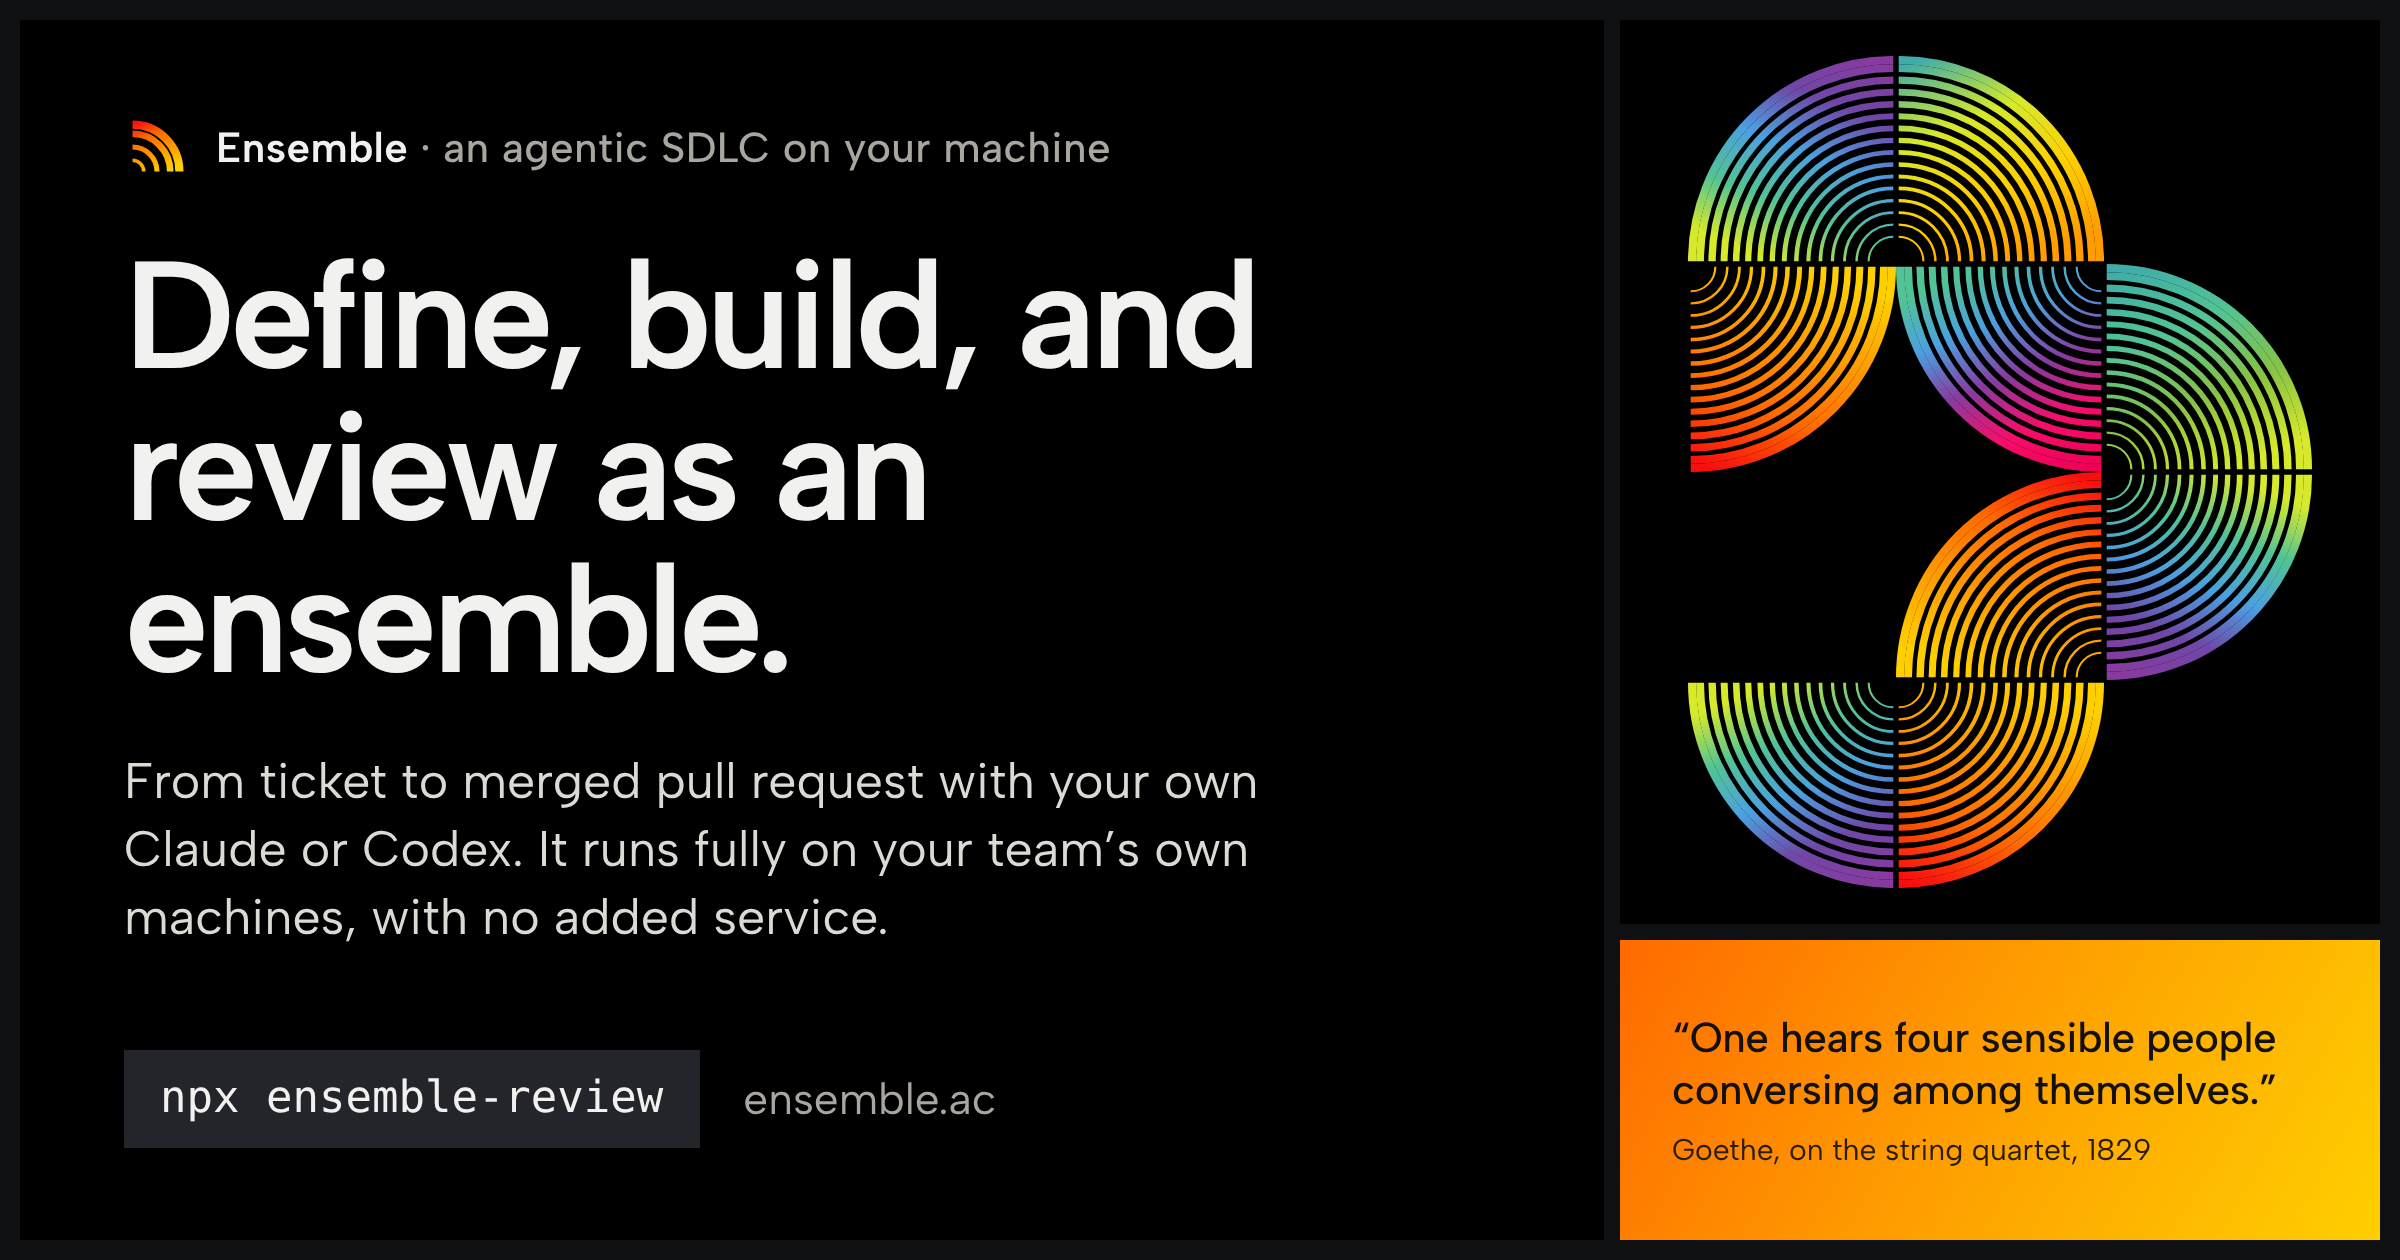
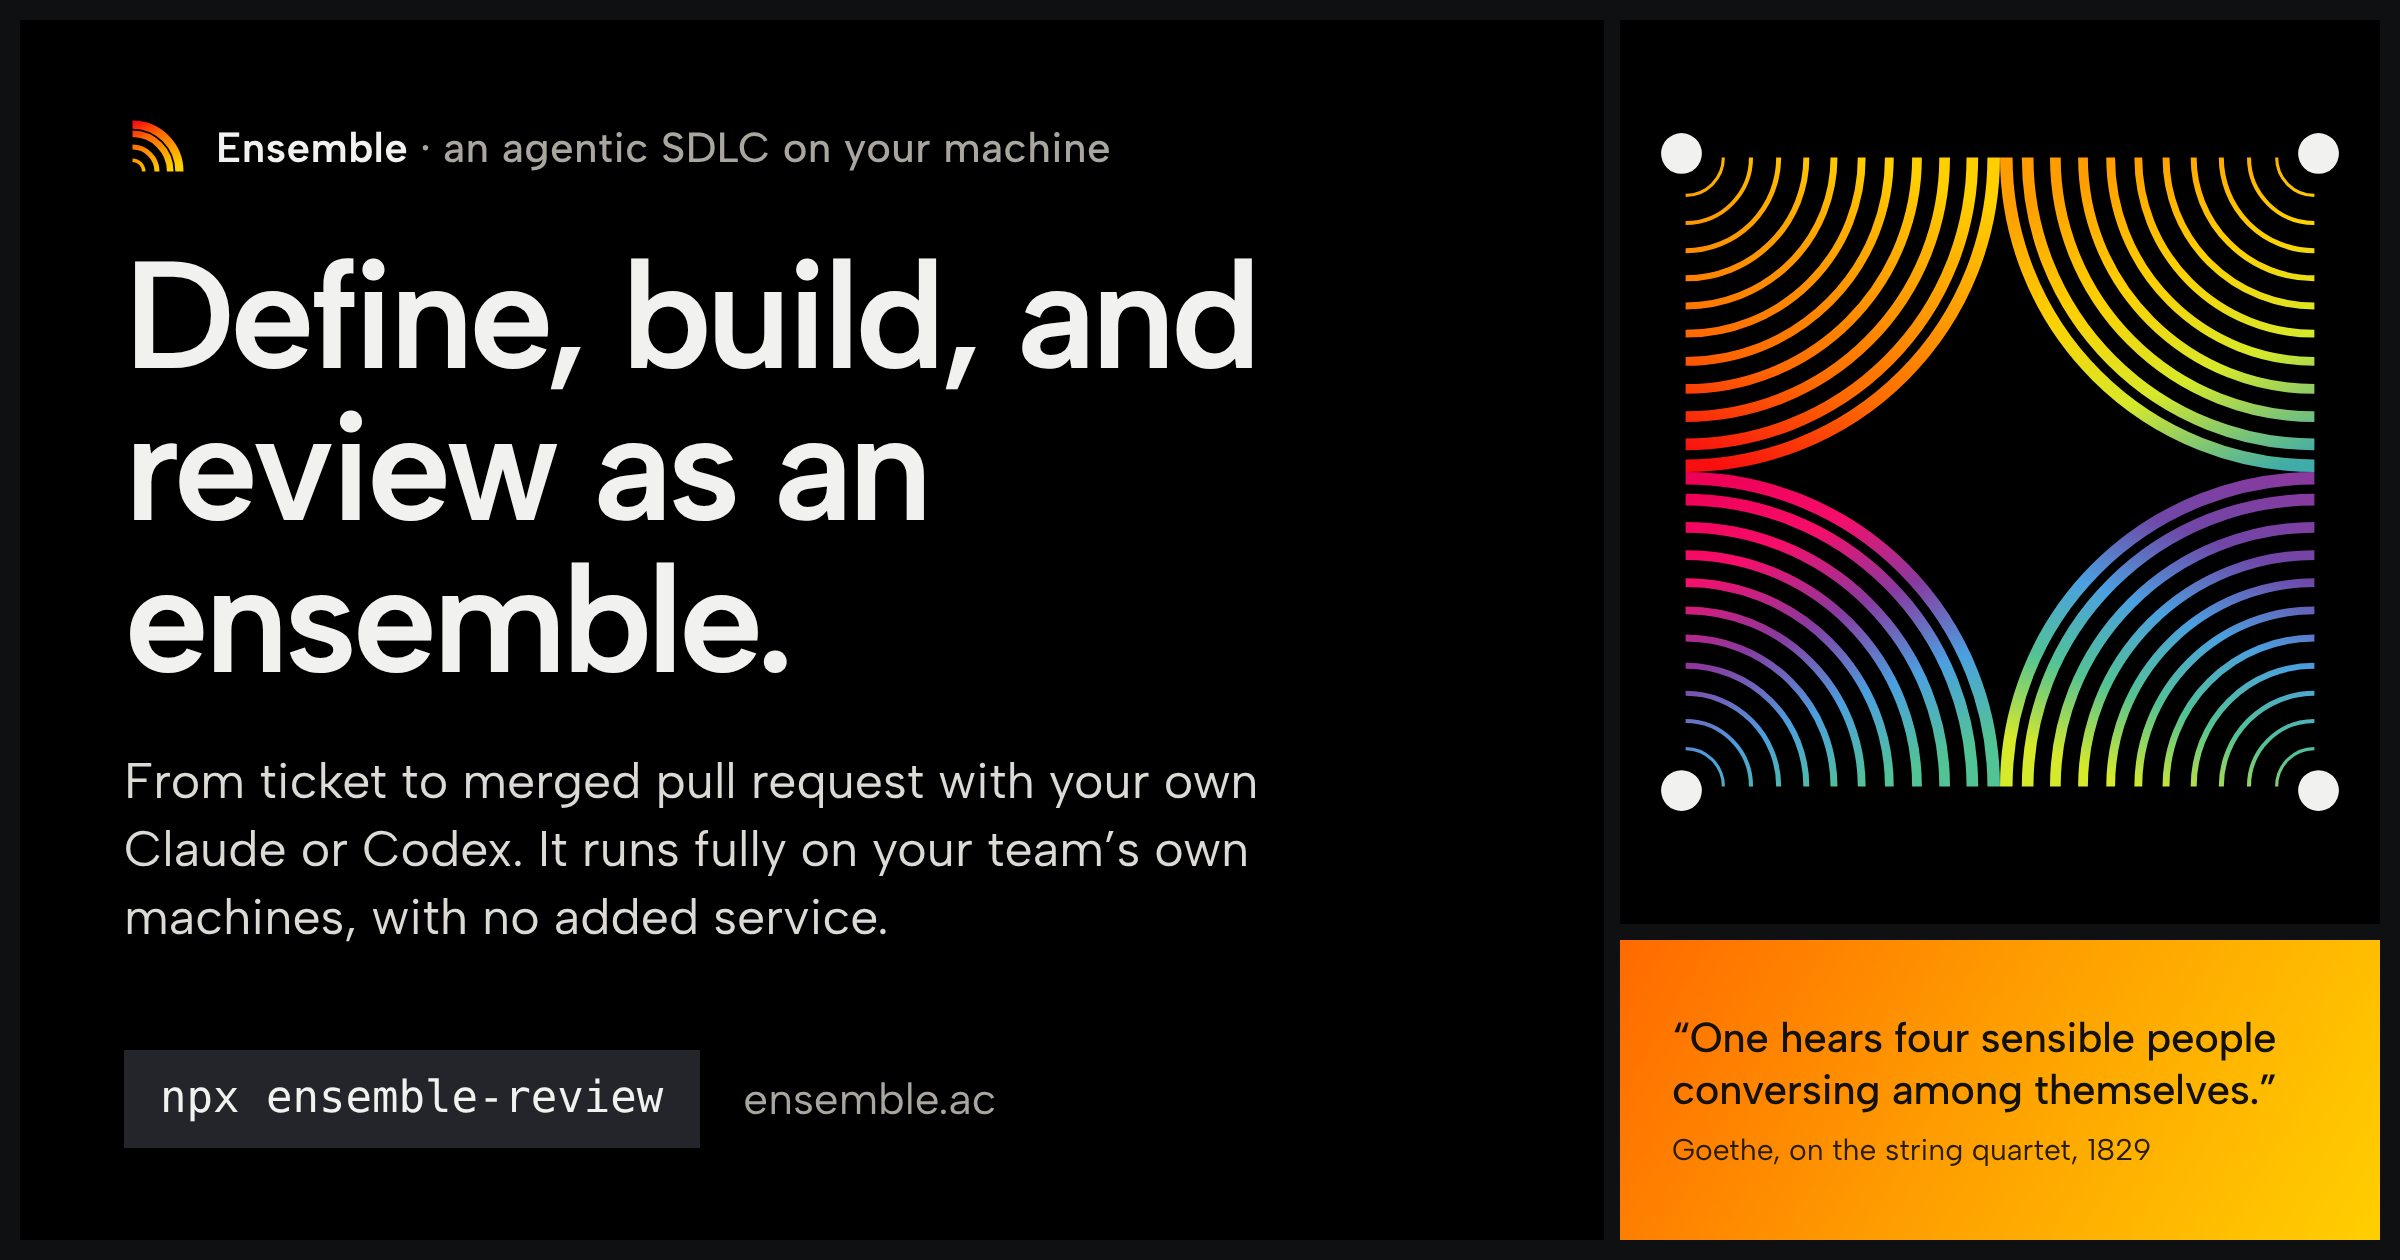
Landing: swap the hero pictures — the Quartet leads, the Chain sits small
- The big hero tile shows the Quartet as the lead picture: its four
  quarters start apart (each pushed out from the middle, with its
  player's dot) and close in over the first 60% of a screen.
- The small tile beside Goethe's line shows the Chain, which draws in
  and assembles as it scrolls into view.
- geometry.ts: quartetQuarters() (outward offsets, a margin for the
  apart state) and a per-quarter player dot that moves with its quarter.
- The share image's picture is the Quartet, to match the hero.

Claude-Session: https://claude.ai/code/session_01Y7zDQPGDUWXXDdJKrAgGTD

Changed region(s): [[0.6875, 0.031, 1.0, 0.7119]]

diff --git a/apps/landing/src/components/arcs/geometry.ts b/apps/landing/src/components/arcs/geometry.ts
@@ -88,6 +88,8 @@ export interface Quarter {
   dy?: number;
   /** Inner radius of the first band (default: the hole, 12% of R). */
   inner?: number;
+  /** A player's dot of this radius at the quarter's centre; it moves with the quarter. */
+  dot?: number;
   /** Paint the bands as seats (dashes) instead of solid lines. */
   seats?: boolean;
 }
@@ -109,6 +111,8 @@ export interface LaidOutQuarter {
   ox: number;
   oy: number;
   paths: { d: string; w: number; k: number; dash?: string }[];
+  /** The player's dot, at the quarter's true centre, if it has one. */
+  dot?: { cx: number; cy: number; r: number };
 }
 
 export function layoutQuarter(q: Quarter): LaidOutQuarter {
@@ -131,6 +135,7 @@ export function layoutQuarter(q: Quarter): LaidOutQuarter {
       // seats are dashes in user units (a chair every ~1.4 band widths)
       dash: q.seats ? `${round(b.t * 1.5)} ${round(b.t * 0.9)}` : undefined,
     })),
+    dot: q.dot ? { cx: q.cx, cy: q.cy, r: q.dot } : undefined,
   };
 }
 
@@ -148,6 +153,7 @@ export function quartersToSvg(viewBox: string, quarters: Quarter[], extra = '', 
     body +=
       `<g fill="none" stroke="url(#g${i})">` +
       l.paths.map((p) => `<path d="${p.d}" stroke-width="${p.w}"${p.dash ? ` stroke-dasharray="${p.dash}"` : ''}/>`).join('') +
+      (l.dot ? `<circle cx="${l.dot.cx}" cy="${l.dot.cy}" r="${l.dot.r}" fill="#f1f1ef" stroke="none"/>` : '') +
       '</g>';
   });
   return `<svg xmlns="http://www.w3.org/2000/svg" viewBox="${viewBox}" preserveAspectRatio="${fit}"><defs>${defs}</defs>${body}${extra}</svg>`;
@@ -276,3 +282,29 @@ export function chainQuarters(
  *  3 × 4 radii. A chain that stacks half-discs on one centre line is avoided on purpose:
  *  that is the reference artwork's own figure. */
 export const SITE_CHAIN = { steps: 'BABBABBA', first: 'h', margin: 0.3 } as const;
+
+/**
+ * The QUARTET: four equal quarters centred on the corners of a 100-unit square, facing
+ * one centre, each with a player's dot at its corner. Each waits OUTWARD (away from the
+ * middle) and closes in. `margin` (in units) is added round the square so the apart
+ * state fits; the returned viewBox includes it.
+ */
+export function quartetQuarters(margin = 0): { quarters: Quarter[]; viewBox: string } {
+  const R = 50;
+  const away = R * 0.2;
+  const q = (cx: number, cy: number, corner: Corner, run: RunName): Quarter => ({
+    cx,
+    cy,
+    R,
+    corner,
+    run,
+    n: 11,
+    dot: 3.2,
+    dx: cx === 0 ? -away : away,
+    dy: cy === 0 ? -away : away,
+  });
+  return {
+    quarters: [q(0, 0, 'tl', 'ember'), q(100, 0, 'tr', 'dawn'), q(100, 100, 'br', 'dusk'), q(0, 100, 'bl', 'bloom')],
+    viewBox: `${-margin} ${-margin} ${100 + 2 * margin} ${100 + 2 * margin}`,
+  };
+}

diff --git a/apps/landing/src/components/arcs/pieces.tsx b/apps/landing/src/components/arcs/pieces.tsx
@@ -1,16 +1,16 @@
 import { Arcs } from './Arcs';
-import { chainQuarters, SITE_CHAIN } from './geometry';
+import { chainQuarters, quartetQuarters, SITE_CHAIN } from './geometry';
 import type { Corner, Quarter, RunName } from './geometry';
 
 // ---------------------------------------------------------------------------
 // The compositions. Every picture on the site is one of these, drawn from the same
 // banded quarter (geometry.ts): no photographs, no product screenshots.
 //
-//   Chain      the signature: quarters linked end to end, each a different voice,
-//              whose bands run on from link to link (the hero). It closes up as
-//              the reader scrolls down.
-//   Quartet    four equal quarters facing one centre: "four sensible people
-//              conversing" (beside Goethe's line)
+//   Quartet    the hero's lead picture: four equal quarters facing one centre,
+//              "four sensible people conversing". Its quarters start apart and
+//              close in as the reader scrolls down.
+//   Chain      quarters linked end to end, each a different voice, whose bands run
+//              on from link to link (the small tile beside Goethe's line)
 //   Orchestra  the seating plan from above: rows of chairs in sections around
 //              the conductor
 //   Combo      a jazz band: four players of different weight, facing in, their
@@ -38,26 +38,19 @@ export function Chain({ className, label, lead }: PieceProps): JSX.Element {
   );
 }
 
-export function Quartet({ className, label }: PieceProps): JSX.Element {
-  const R = 50;
-  const q = (cx: number, cy: number, corner: Corner, run: RunName): Quarter => ({ cx, cy, R, corner, run, n: 11 });
+// The hero's lead picture: the margin keeps the apart state inside the tile.
+const QUARTET = quartetQuarters(22);
+
+export function Quartet({ className, label, lead }: PieceProps): JSX.Element {
   return (
     <Arcs
-      viewBox="0 0 100 100"
+      lead={lead}
+      viewBox={QUARTET.viewBox}
       className={className}
       label={label}
       preserveAspectRatio="xMidYMid meet"
-      quarters={[q(0, 0, 'tl', 'ember'), q(100, 0, 'tr', 'dawn'), q(100, 100, 'br', 'dusk'), q(0, 100, 'bl', 'bloom')]}
-    >
-      {[
-        [0, 0],
-        [100, 0],
-        [100, 100],
-        [0, 100],
-      ].map(([x, y], i) => (
-        <circle key={i} className="player" cx={x} cy={y} r={3.2} />
-      ))}
-    </Arcs>
+      quarters={QUARTET.quarters}
+    />
   );
 }
 

diff --git a/apps/landing/src/components/board/Hero.tsx b/apps/landing/src/components/board/Hero.tsx
@@ -3,10 +3,10 @@ import { INSTALL_COMMAND, SITE_NAME } from '../../lib/site';
 import { CopyCommand } from './CopyCommand';
 
 // ---------------------------------------------------------------------------
-// The hero: the claim, the command, and the site's signature picture, the CHAIN
-// (components/arcs): quarters linked end to end that close up as the reader scrolls.
-// Under the claim, the QUARTET (four quarters facing one centre) beside Goethe's line
-// on the string quartet: an ensemble as a conversation, which is what a review is.
+// The hero: the claim, the command, and the site's lead picture, the QUARTET
+// (components/arcs): four quarters facing one centre that close in as the reader
+// scrolls, an ensemble as a conversation, which is what a review is. Under the claim,
+// the CHAIN (quarters linked end to end) beside Goethe's line on the string quartet.
 //
 // ⚠ "Fully local, no added service" is the claim, and it is exact: the app runs on each
 // person's machine and talks only to GitHub, their tracker and their own AI provider.
@@ -30,7 +30,7 @@ export function Hero(): JSX.Element {
         </div>
       </div>
       <div className="tile art p1">
-        <Quartet label="Four banded quarter-circles in four colours, facing one centre" />
+        <Chain label="A chain of banded quarter-circles linked end to end, each in its own run of colour" />
       </div>
       <figure className="tile motto">
         <blockquote>
@@ -39,7 +39,7 @@ export function Hero(): JSX.Element {
         <figcaption>Goethe, on the string quartet, in a letter to Zelter, 1829</figcaption>
       </figure>
       <div className="tile art hand">
-        <Chain lead label="A chain of banded quarter-circles linked end to end, each in its own run of colour" />
+        <Quartet lead label="Four banded quarter-circles in four colours, facing one centre" />
       </div>
     </section>
   );

diff --git a/apps/landing/src/pages/home.css b/apps/landing/src/pages/home.css
@@ -5,7 +5,7 @@
 
    CLASSES
      shared     .k (small label) · .cmd (copy button + code) · .section.chapter
-     hero       .hero > .say (.kick, h1, .lead, .cmd) · .art.p1 (Quartet) · figure.motto · .art.hand (Chain)
+     hero       .hero > .say (.kick, h1, .lead, .cmd) · .art.p1 (Chain) · figure.motto · .art.hand (Quartet)
      flow       .board.flow > ol.flow-steps > li.tile (.flow-n, h3, p) · p.flow-loop · p.flow-more
      ensemble   .board.ensemble > .tile.circle (svg.circle-svg) · .ens-points > .tile (h3, p) · p.ens-more
      bots       .board.bots > .tile (h3, p, p.more)
@@ -448,7 +448,7 @@
     grid-row: auto;
   }
   .lb.home .hero .hand {
-    aspect-ratio: 3 / 4;
+    aspect-ratio: 1;
   }
   .lb.home .why4 > .tile {
     grid-column: span 6;

diff --git a/apps/landing/src/components/arcs/Arcs.tsx b/apps/landing/src/components/arcs/Arcs.tsx
@@ -80,6 +80,7 @@ export function Arcs({
               style={{ '--k': p.k } as React.CSSProperties}
             />
           ))}
+          {l.dot && <circle className="player" cx={l.dot.cx} cy={l.dot.cy} r={l.dot.r} />}
         </g>
       ))}
       {children}

diff --git a/apps/landing/README.md b/apps/landing/README.md
@@ -18,7 +18,7 @@ plus the three legal ones and the docs. (2026-11 restructure: `/teams` 301s to `
 
 | Route | Page | Focus |
 |---|---|---|
-| `/` | `pages/Home.tsx` | "Define, build, and review as an ensemble": the hero (the Chain and the Quartet, Goethe's line), the build flow (`HomeSections.tsx` HowItWorks), review as an ensemble (the circle), dependency updates, and the close |
+| `/` | `pages/Home.tsx` | "Define, build, and review as an ensemble": the hero (the Quartet, and the Chain beside Goethe's line), the build flow (`HomeSections.tsx` HowItWorks), review as an ensemble (the circle), dependency updates, and the close |
 | `/build` | `pages/Build.tsx` | How a ticket becomes a pull request, by hand and automatically; the story check; the Ticket design example; verifying the results |
 | `/ensemble-review` | `pages/EnsembleReview.tsx` | How each teammate's local agent joins one review with no server between them — GitHub's status lines, Claude + Codex, thread judgements, the licence above the free size |
 | `/automation` | `pages/Automation.tsx` | Everything the dependency automation does, and how it claims each pull request once per team |
